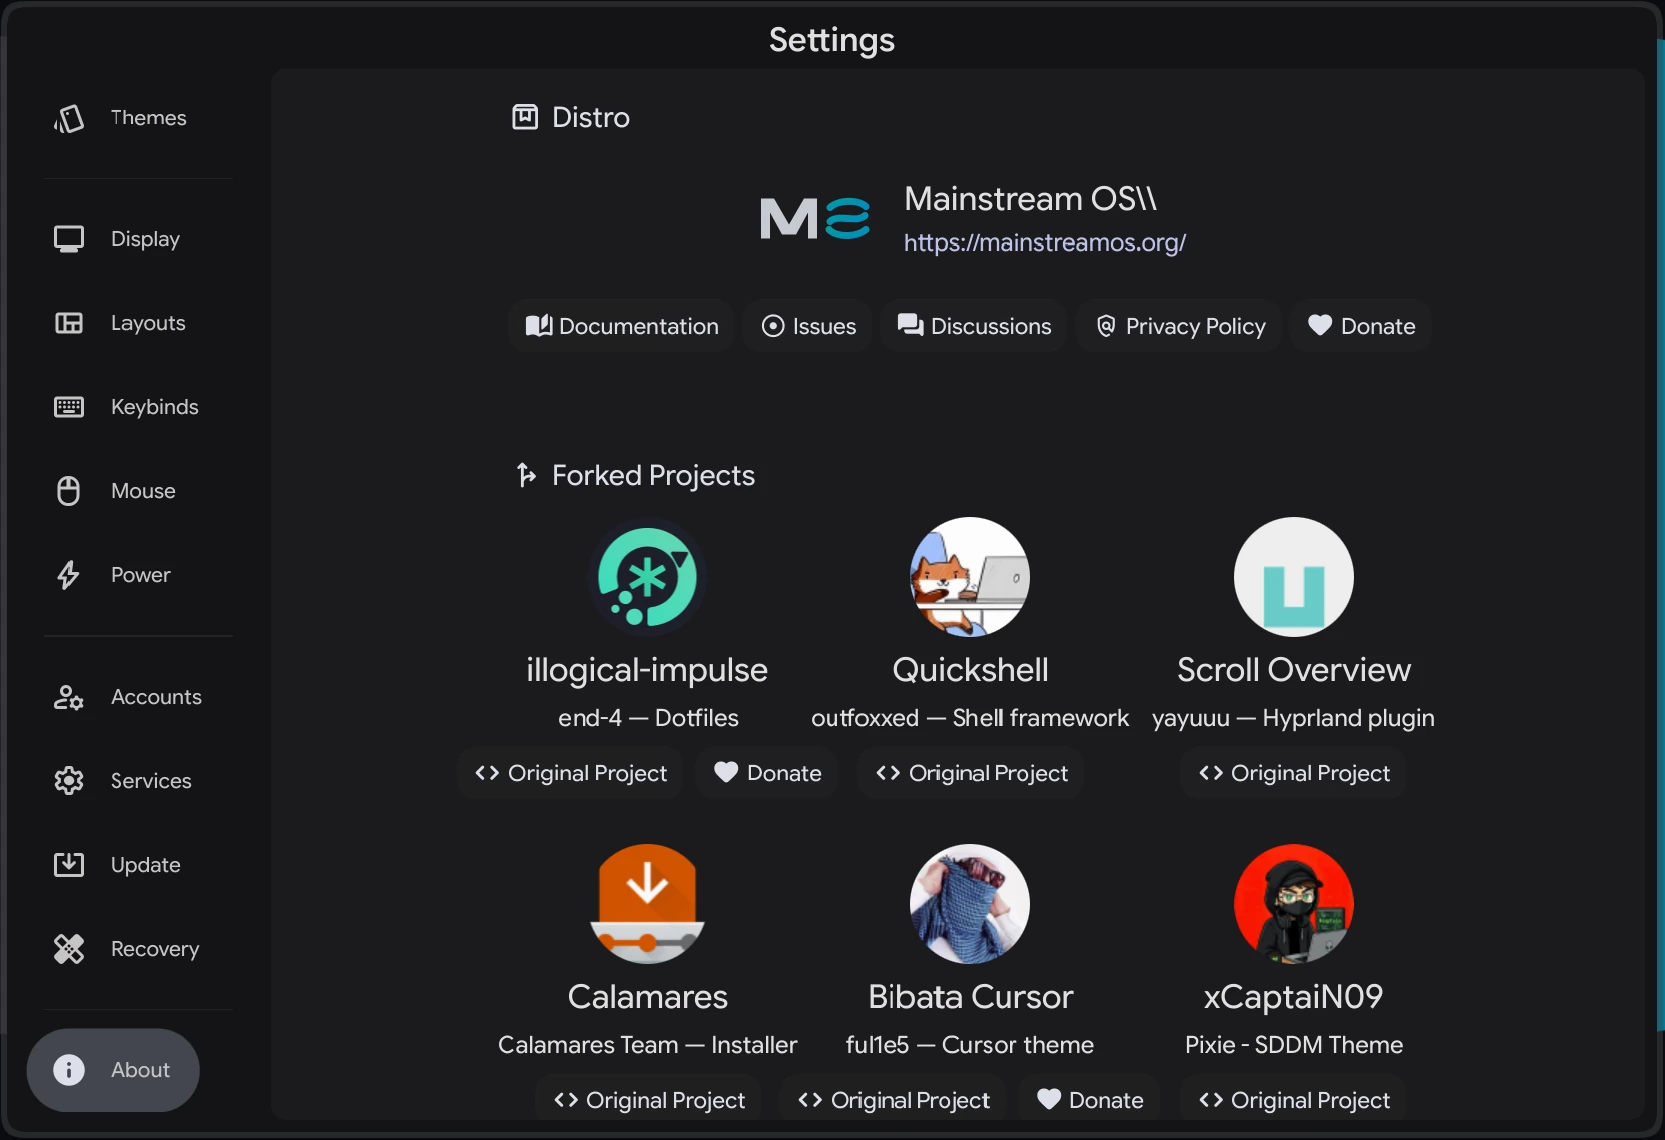
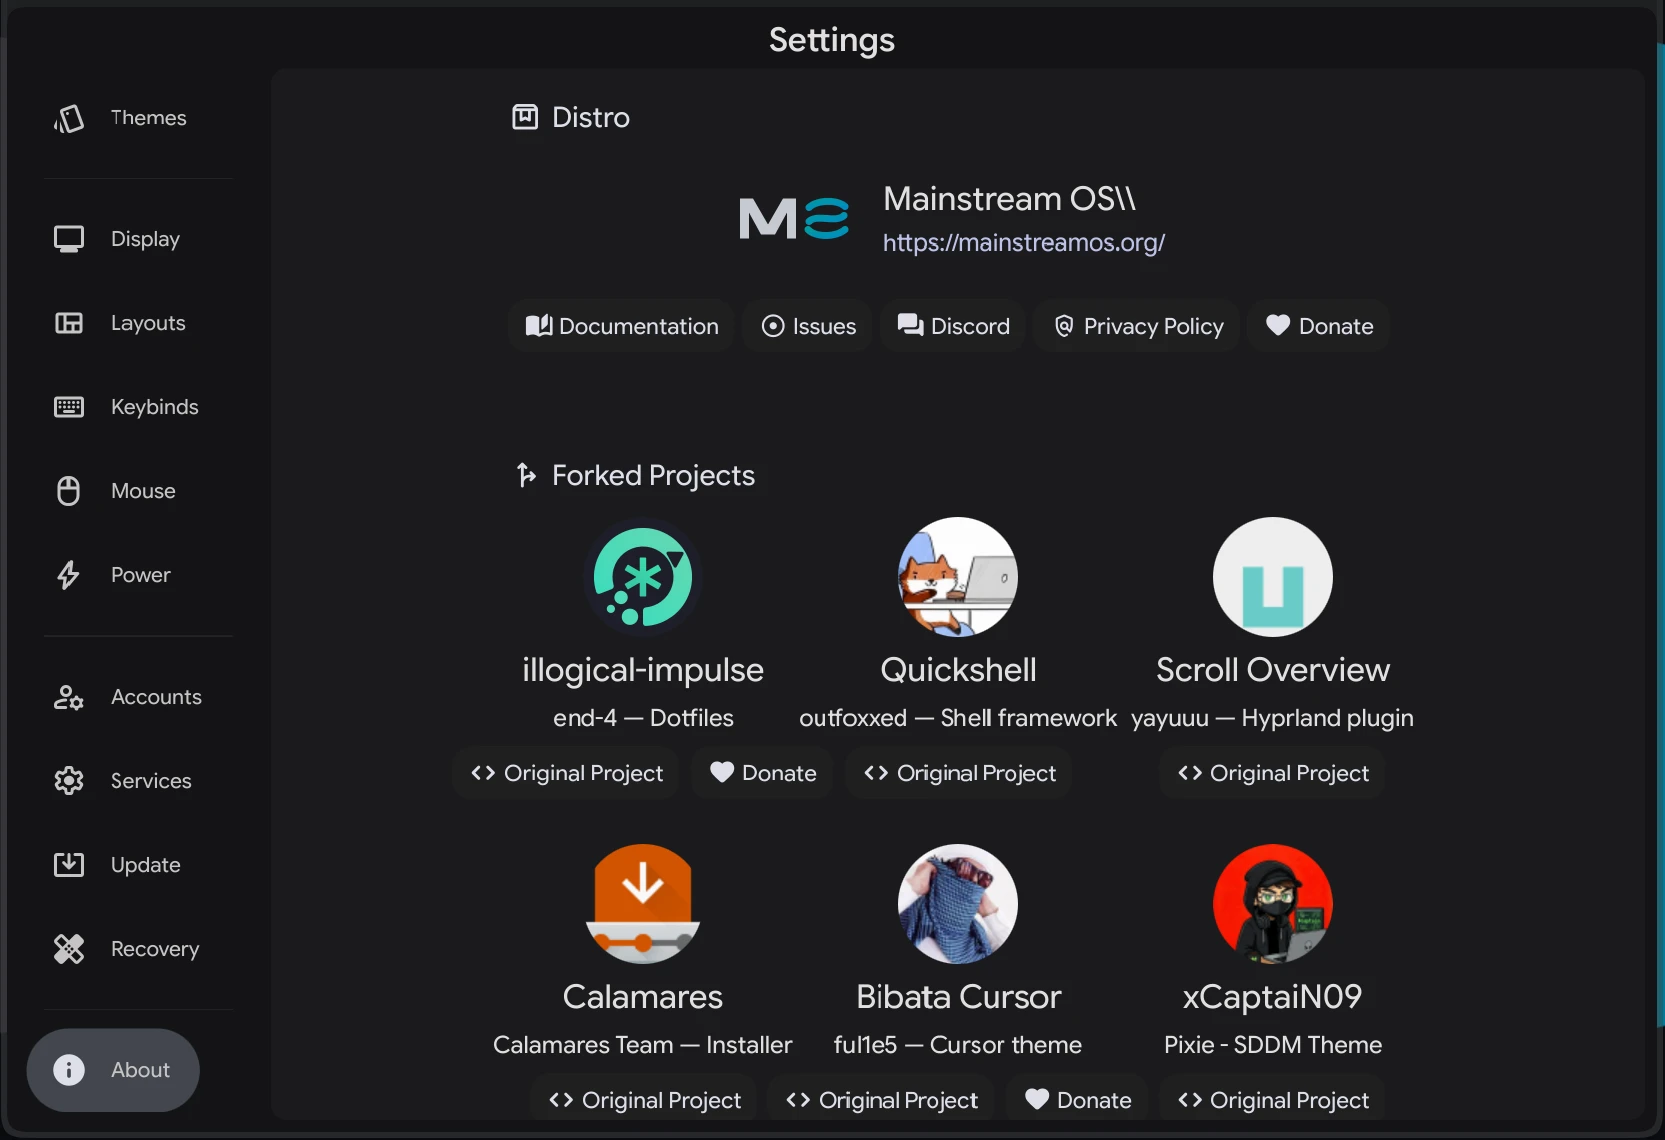
docs: refresh the About page and settings tour for the Discord button

diff --git a/docs-pages.js b/docs-pages.js
@@ -1069,7 +1069,7 @@ PAGES.about = {
     <div class="props">
       <div class="prop"><center><div class="k">Documentation</div></center><div class="v">This site — <a href="https://mainstreamos.org/">mainstreamos.org</a>.</div></div>
       <div class="prop"><center><div class="k">Issues</div></center><div class="v">Report a bug or request a feature on the tracker.</div></div>
-      <div class="prop"><center><div class="k">Discussions</div></center><div class="v">Ask questions and share setups with the community.</div></div>
+      <div class="prop"><center><div class="k">Discord</div></center><div class="v">Live help and community — questions, showcases, and release news.</div></div>
       <div class="prop"><center><div class="k">Privacy Policy</div></center><div class="v">What Mainstream does and doesn\'t collect.</div></div>
       <div class="prop"><center><div class="k">Donate</div></center><div class="v">Like where this is going? Help it get there.</div></div>
     </div>

diff --git a/index.html b/index.html
@@ -362,7 +362,7 @@
   </div>
 </div>
 
-<script src="docs-pages.js?v=123"></script>
+<script src="docs-pages.js?v=124"></script>
 <script src="welcome-warm.js?v=3"></script>
 <script src="docs-app.js?v=124"></script>
 <script>